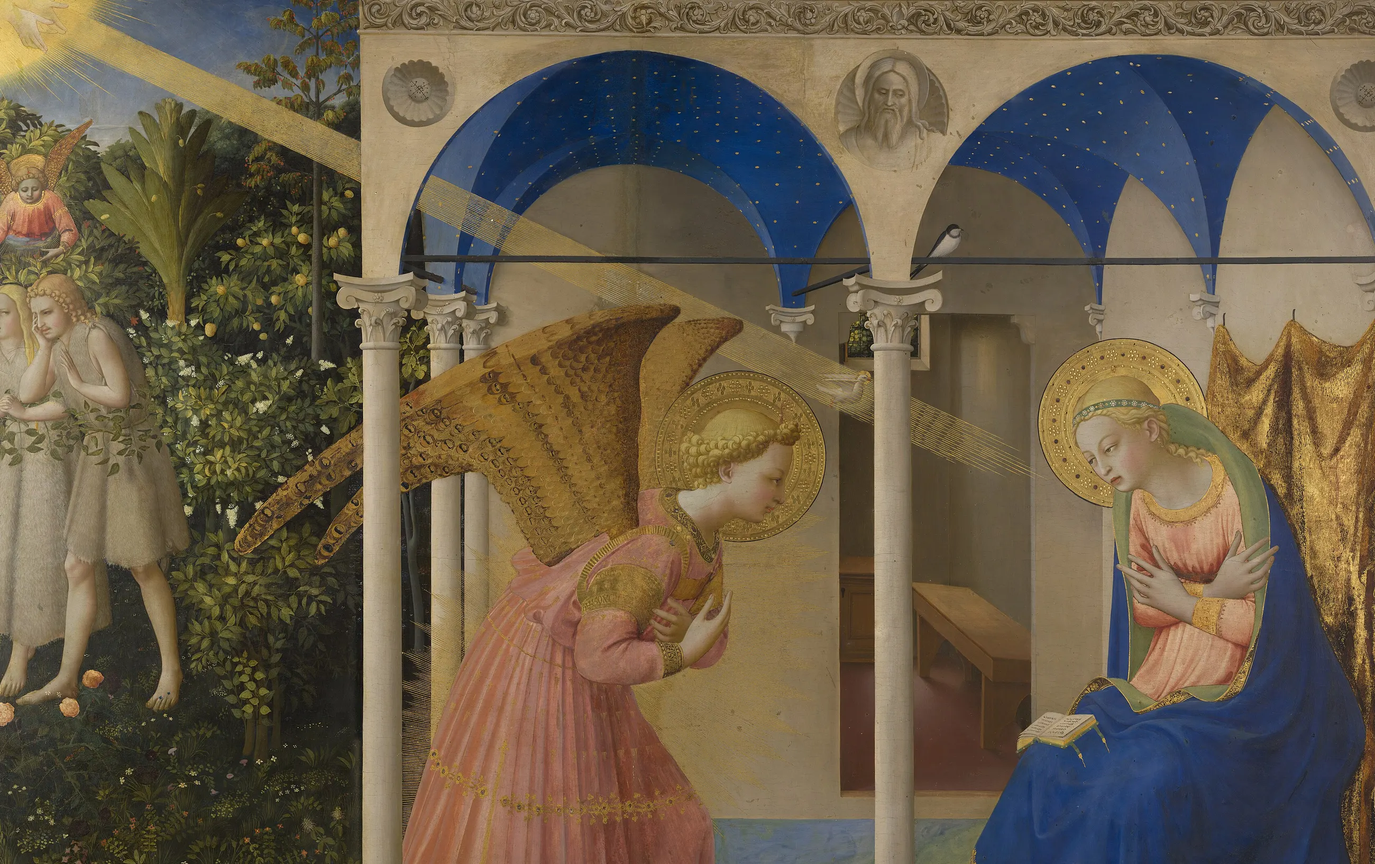
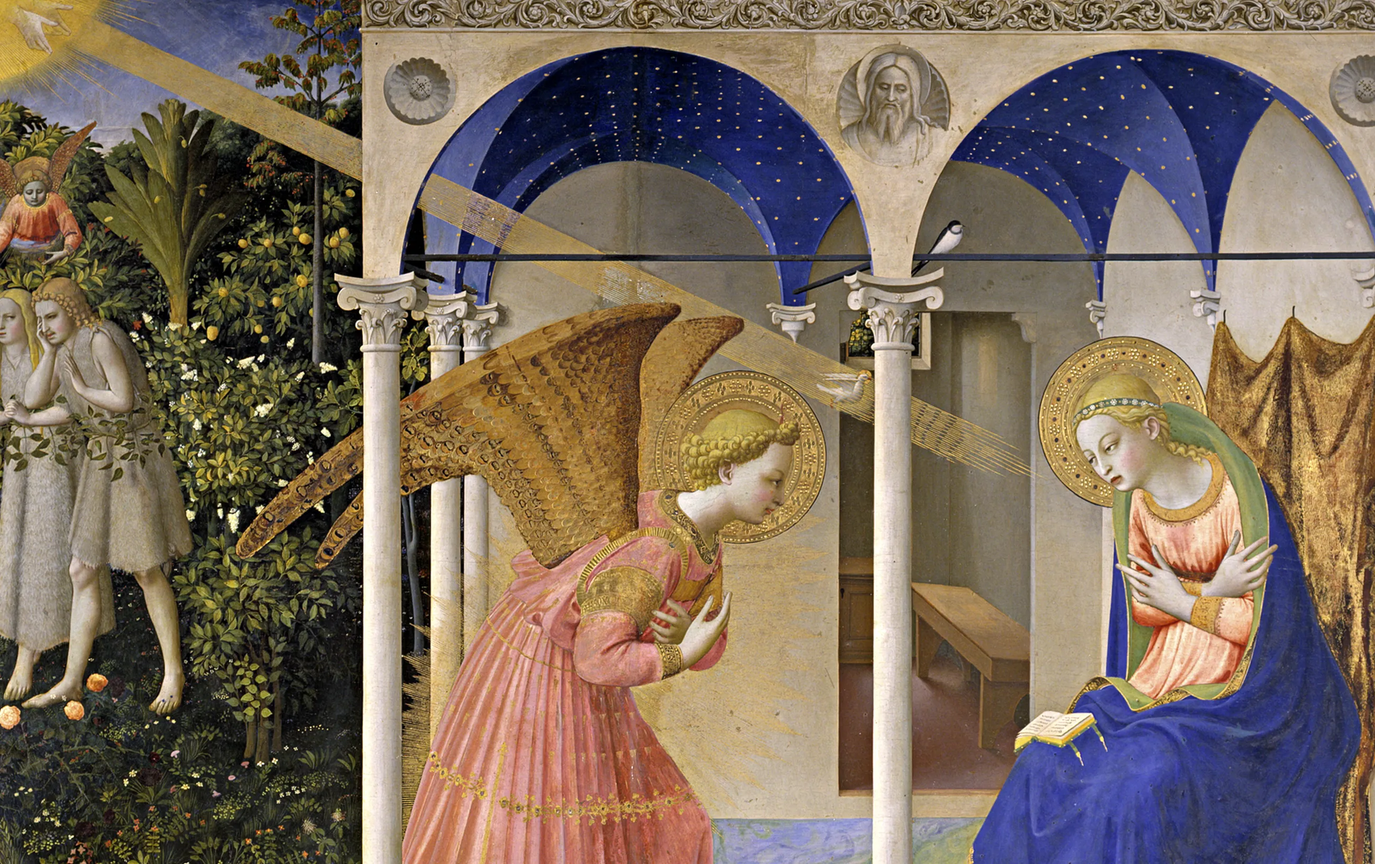
fix: use the Prado's own scan for the landing Annunciation

diff --git a/docs/landing-art-credits.md b/docs/landing-art-credits.md
@@ -28,5 +28,5 @@ The files in `public/landing/` are cropped and resized from these works. `empyre
 | assumption | The Death and the Assumption of the Virgin | Fra Angelico | public domain | https://commons.wikimedia.org/wiki/File:The_Death_and_the_Assumption_of_the_Virgin_-_Fra_Angelico_-_Google_Cultural_Institute.jpg |
 | coronation | Coronation of the Virgin | Fra Angelico | public domain | https://commons.wikimedia.org/wiki/File:Fra_Angelico_038.jpg |
 | transfiguration | Transfiguration (Cell 6) | Fra Angelico | public domain | https://commons.wikimedia.org/wiki/File:Transfiguration_by_fra_Angelico_(San_Marco_Cell_6).jpg |
-| annunciation-prado | Polish: Zwiastowanie Annunciation | Fra Angelico | public domain | https://commons.wikimedia.org/wiki/File:La_Anunciaci%C3%B3n,_by_Fra_Angelico,_from_Prado_in_Google_Earth.jpg |
+| annunciation-prado | Annunciation (Museo del Prado, P000015) | Fra Angelico | public domain | https://commons.wikimedia.org/wiki/File:La_Anunciaci%C3%B3n_(Fra_Angelico-Prado).jpg |
 | agony | Christ in the Garden of Gethsemane | Fra Angelico | public domain | https://commons.wikimedia.org/wiki/File:Fra_Angelico_016.jpg |
